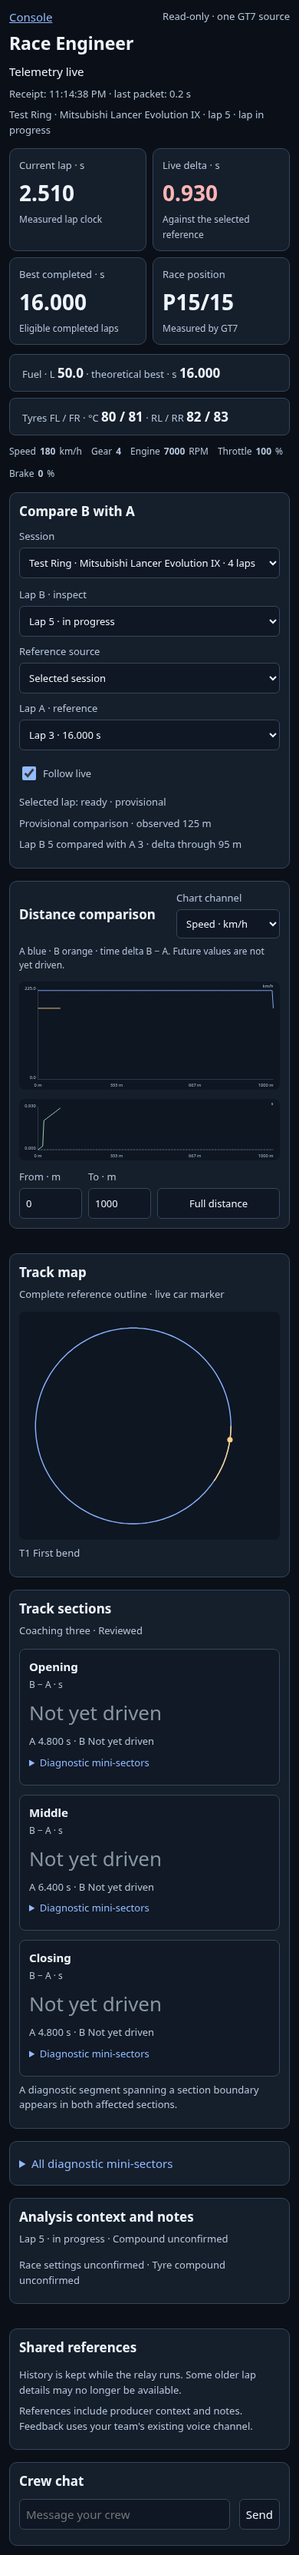
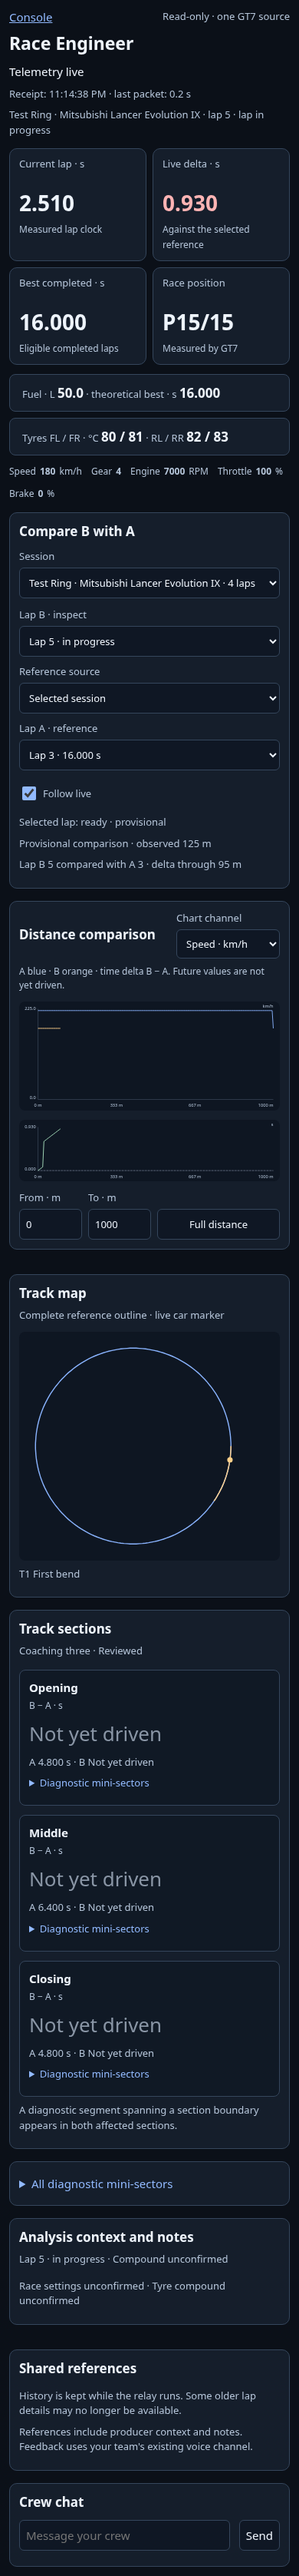
fix: align phone headline values across font wrapping

diff --git a/src/console/race-engineer.html b/src/console/race-engineer.html
@@ -3,7 +3,7 @@
 :root{color-scheme:dark;--bg:#0b1018;--panel:#151e2b;--edge:#35465c;--ink:#eef4fc;--muted:#b5c5d9;--blue:#92baff;--orange:#ffcb83;--good:#a6e1b4;--bad:#ffb4b4}
 *{box-sizing:border-box}body{margin:0;background:var(--bg);color:var(--ink);font:15px system-ui}main{max-width:1440px;margin:auto;padding:24px}a{color:var(--blue)}header{display:flex;justify-content:space-between;align-items:center;gap:20px}h1{margin:8px 0 2px;font-size:26px}h2{font-size:17px;margin:0}p{line-height:1.5;margin:8px 0}.sub{color:var(--muted);font-size:13px}.proposal{padding:8px 12px;border:1px solid var(--edge);border-radius:8px;color:var(--orange);font-size:13px}.live{color:var(--good)}.headline{display:grid;grid-template-columns:repeat(4,1fr);gap:12px;margin-top:20px}.tile{border:1px solid var(--edge);background:var(--panel);border-radius:10px;padding:16px}.tile span{display:block;color:var(--muted);font-size:13px}.tile strong{font-size:32px;font-variant-numeric:tabular-nums;display:block;margin:8px 0 4px}.tile small{color:var(--muted);font-size:12px}.gain{color:var(--good)}.loss{color:var(--bad)}.support{display:grid;grid-template-columns:1fr 1fr;gap:12px;margin-top:12px}.support>div{border:1px solid var(--edge);border-radius:8px;padding:12px 16px;background:var(--panel)}.inputs{display:flex;gap:24px;flex-wrap:wrap;margin:12px 0;color:var(--muted);font-size:13px}.inputs b{color:var(--ink);font-weight:600}.pedal{display:inline-block;height:6px;width:70px;background:#a6e1b4;border-radius:4px;vertical-align:middle}.pedal.brake{width:22px;background:#ffb4b4}.card{padding:18px;border:1px solid var(--edge);border-radius:10px;background:var(--panel);margin-top:16px}.compare{display:grid;grid-template-columns:1fr 1fr 1fr auto;gap:14px;align-items:end}label{display:flex;flex-direction:column;gap:6px;color:var(--muted);font-size:13px}select,input,button{font:inherit;color:var(--ink);background:#0f1724;border:1px solid var(--edge);border-radius:6px;min-height:40px;padding:8px;max-width:100%;min-width:0}input[type=checkbox]{min-height:0;width:18px;height:18px;accent-color:#92baff}.check{flex-direction:row;align-items:center;min-height:40px}.plots{display:grid;grid-template-columns:1.55fr 1fr;gap:16px}.plot-head{display:flex;justify-content:space-between;gap:14px;align-items:center}.plot-head select{min-height:36px;font-size:13px}.legend{font-size:12px;color:var(--muted)}.legend .a{color:var(--blue)}.legend .b{color:var(--orange)}svg{width:100%;display:block;background:#0e1622;border-radius:8px;margin-top:12px}svg text{fill:var(--muted);font:12px system-ui}.zoom{display:flex;gap:12px;align-items:end;margin-top:12px}.zoom label{width:110px}.zoom button{font-size:13px}.section-row{display:grid;grid-template-columns:repeat(3,1fr);gap:12px;margin-top:14px}.section{background:#101925;border:1px solid var(--edge);border-radius:8px;padding:14px}.section strong{font-size:22px;font-variant-numeric:tabular-nums}.section span{display:block;margin:5px 0;color:var(--muted);font-size:12px}.section details{margin-top:12px;font-size:13px}summary{cursor:pointer;color:var(--blue);min-height:26px}table{width:100%;border-collapse:collapse;font-size:12px;font-variant-numeric:tabular-nums;margin-top:8px}th,td{text-align:right;padding:6px 3px;border-bottom:1px solid var(--edge)}th:first-child,td:first-child{text-align:left}th{color:var(--muted)}.context{display:grid;grid-template-columns:1fr 1fr;gap:16px}.chat{display:flex;gap:12px;margin-top:12px}.chat input{flex:1}.phone-summary{display:none}footer{padding:20px 0;color:var(--muted);font-size:12px}
 @media(max-width:1100px){main{padding:18px}.tile{padding:14px}.tile strong{font-size:28px}.compare{grid-template-columns:1fr 1fr 1fr}.check{grid-column:1/-1}.plots{grid-template-columns:1.5fr 1fr}.plot-head{flex-wrap:wrap}.section{padding:12px}}
-@media(max-width:600px){main{padding:12px}header{align-items:start;flex-wrap:wrap;gap:8px}h1{font-size:23px}.headline{grid-template-columns:1fr 1fr;gap:8px;margin-top:14px}.tile strong{font-size:28px}.tile{padding:12px}.support{grid-template-columns:1fr;gap:8px}.inputs{gap:12px;font-size:12px}.card{padding:12px}.compare{grid-template-columns:1fr;gap:10px}.check{grid-column:auto}.plots,.context{grid-template-columns:1fr}.section-row{grid-template-columns:1fr}.phone-summary{display:block;padding-top:4px}.plot-head{flex-wrap:nowrap}.plot-head select{max-width:135px}.section details{margin-top:8px}.zoom label{width:82px}.zoom{gap:8px}.zoom button{flex:1;padding:6px}.chat{flex-wrap:wrap}.chat input{width:100%}}
+@media(max-width:600px){main{padding:12px}header{align-items:start;flex-wrap:wrap;gap:8px}h1{font-size:23px}.headline{grid-template-columns:1fr 1fr;gap:8px;margin-top:14px}.headline .tile>span{min-height:2.4em;line-height:1.2}.tile strong{font-size:28px}.tile{padding:12px}.support{grid-template-columns:1fr;gap:8px}.inputs{gap:12px;font-size:12px}.card{padding:12px}.compare{grid-template-columns:1fr;gap:10px}.check{grid-column:auto}.plots,.context{grid-template-columns:1fr}.section-row{grid-template-columns:1fr}.phone-summary{display:block;padding-top:4px}.plot-head{flex-wrap:nowrap}.plot-head select{max-width:135px}.section details{margin-top:8px}.zoom label{width:82px}.zoom{gap:8px}.zoom button{flex:1;padding:6px}.chat{flex-wrap:wrap}.chat input{width:100%}}
 
 [hidden]{display:none!important}.dim{opacity:.6}.value strong{font-variant-numeric:tabular-nums}.not-driven{color:#8995a5;font-weight:400}.gain{color:#a6e1b4}.loss{color:#ffb4b4}.support strong{font-size:17px}.scroll{overflow-x:auto}.source-row{margin:12px 0}.source-row select{width:100%}#notice:empty,#new-laps:empty{display:none}#notes{padding-left:18px}#references{padding-left:18px}#chatlog{max-height:240px;overflow-y:auto}.inputs .value{display:flex;gap:5px;align-items:center}.mini-details{margin-top:16px}.mini-details summary{padding:6px 0}.section table{font-size:12px}.section header{display:block}.section h3{font-size:15px;margin:0}.section .section-delta{display:block;font-size:26px;margin:10px 0}.section small{font-size:12px;color:var(--muted)}
 </style><script>window.RC_API_BASE="__RC_API_BASE__";window.RC_API=p=>(window.RC_API_BASE||'')+p;if(location.search)history.replaceState({},'',location.pathname);</script></head><body><main>

diff --git a/tools/e2e-engineer-layout.py b/tools/e2e-engineer-layout.py
@@ -50,6 +50,8 @@ async def main():
 
                     await detail.locator('summary').click()
 
+                    if width==390:
+                        await page.locator('#best').evaluate('(el)=>{el.previousElementSibling.replaceChildren(document.createTextNode("Best"),document.createElement("br"),document.createTextNode("completed · s"));}')
                     positions=await page.evaluate('() => ["lap-time","delta","best","race-position"].map(id=>{const r=document.getElementById(id).getBoundingClientRect();return {x:r.x,y:r.y};})')
                     if width>600:
                         assert max(p['y'] for p in positions)-min(p['y'] for p in positions)<2, 'headline metrics were not one row'

diff --git a/src/docs/design/engineer-desk-layout.md b/src/docs/design/engineer-desk-layout.md
@@ -23,3 +23,7 @@ Disclosure state and keyboard focus survive regular analysis refreshes. The
 current definition/variant identifies that state; a new definition or a cleared
 selection/access view resets it. A browser regression observes three complete
 signed polling cycles while the section remains expanded and focused.
+
+Phone headline labels reserve two lines with a fixed line height. CI exposed
+font-dependent wrapping of the best-lap label; a browser regression forces that
+label onto two lines and checks that numeric values in each grid row stay aligned.
